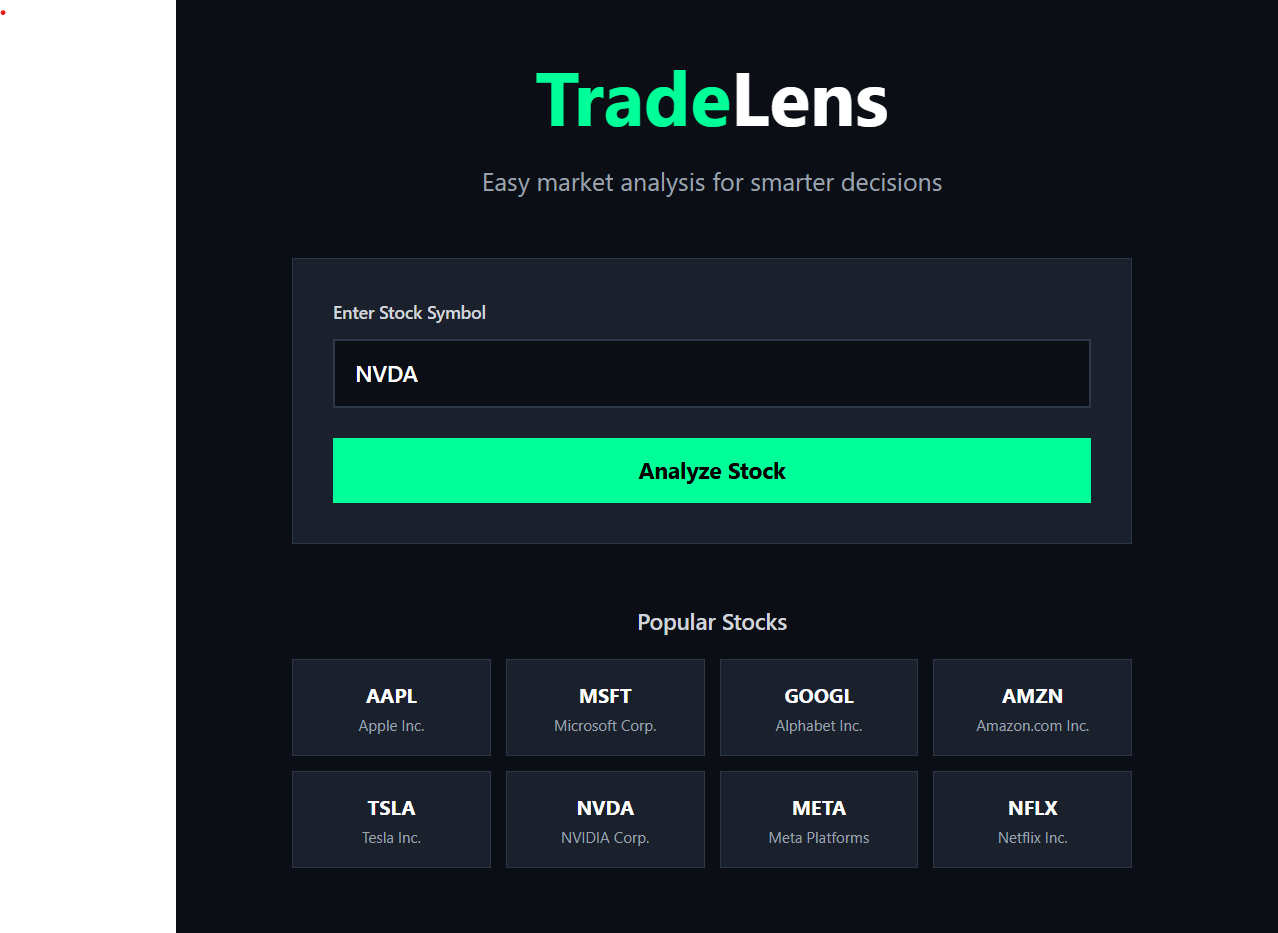
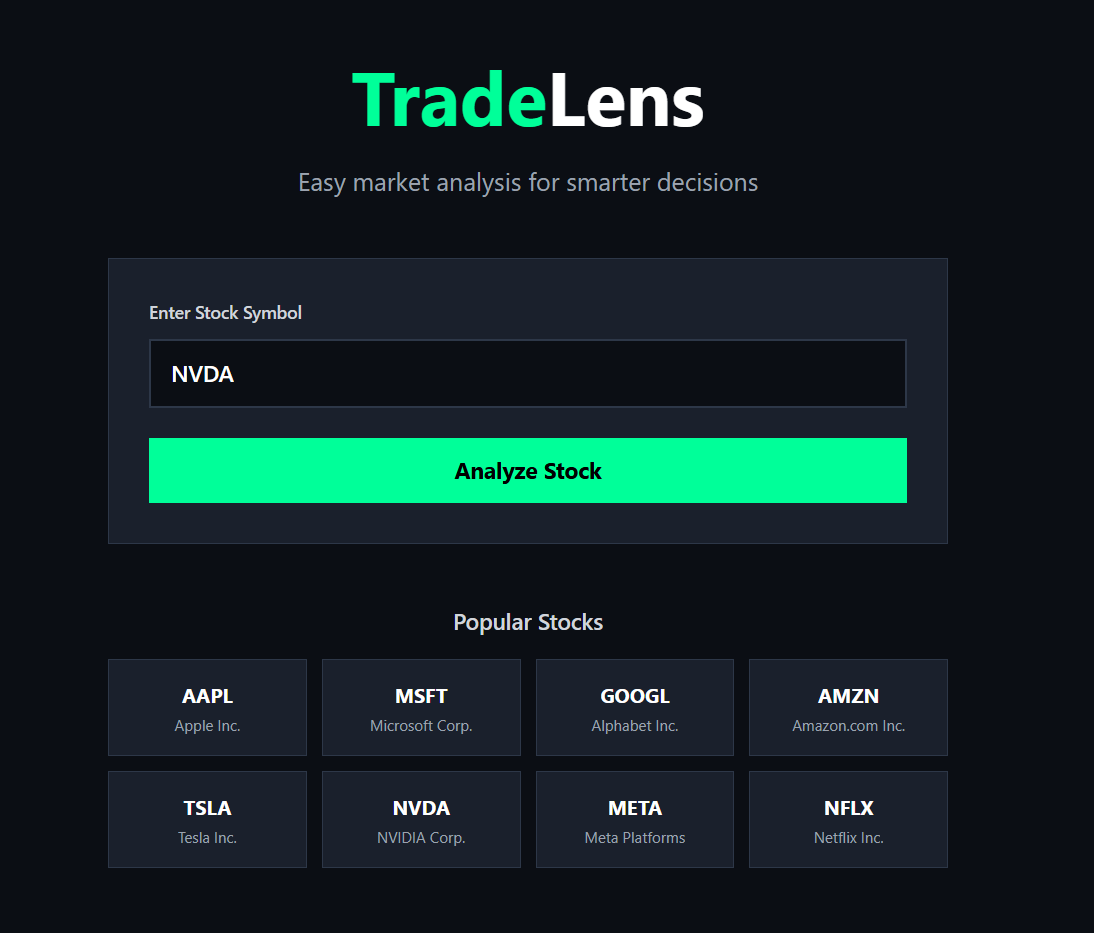
Fix matplotlib display error on headless Railway server
- Railway containers have no display (no  env var)
- matplotlib defaults to TkAgg backend which requires a display
- This caused 500 Internal Server Error during Excel report generation
- Added matplotlib.use('Agg') to use non-interactive backend before importing pyplot

diff --git a/output/excel/excel_generator.py b/output/excel/excel_generator.py
@@ -18,6 +18,8 @@ from openpyxl.utils import get_column_letter
 from openpyxl.utils.dataframe import dataframe_to_rows
 from openpyxl.worksheet.table import Table, TableStyleInfo
 from openpyxl.cell.cell import MergedCell
+import matplotlib
+matplotlib.use('Agg')  # Use non-interactive backend for headless servers
 import matplotlib.pyplot as plt
 import matplotlib.dates as mdates
 from matplotlib.figure import Figure